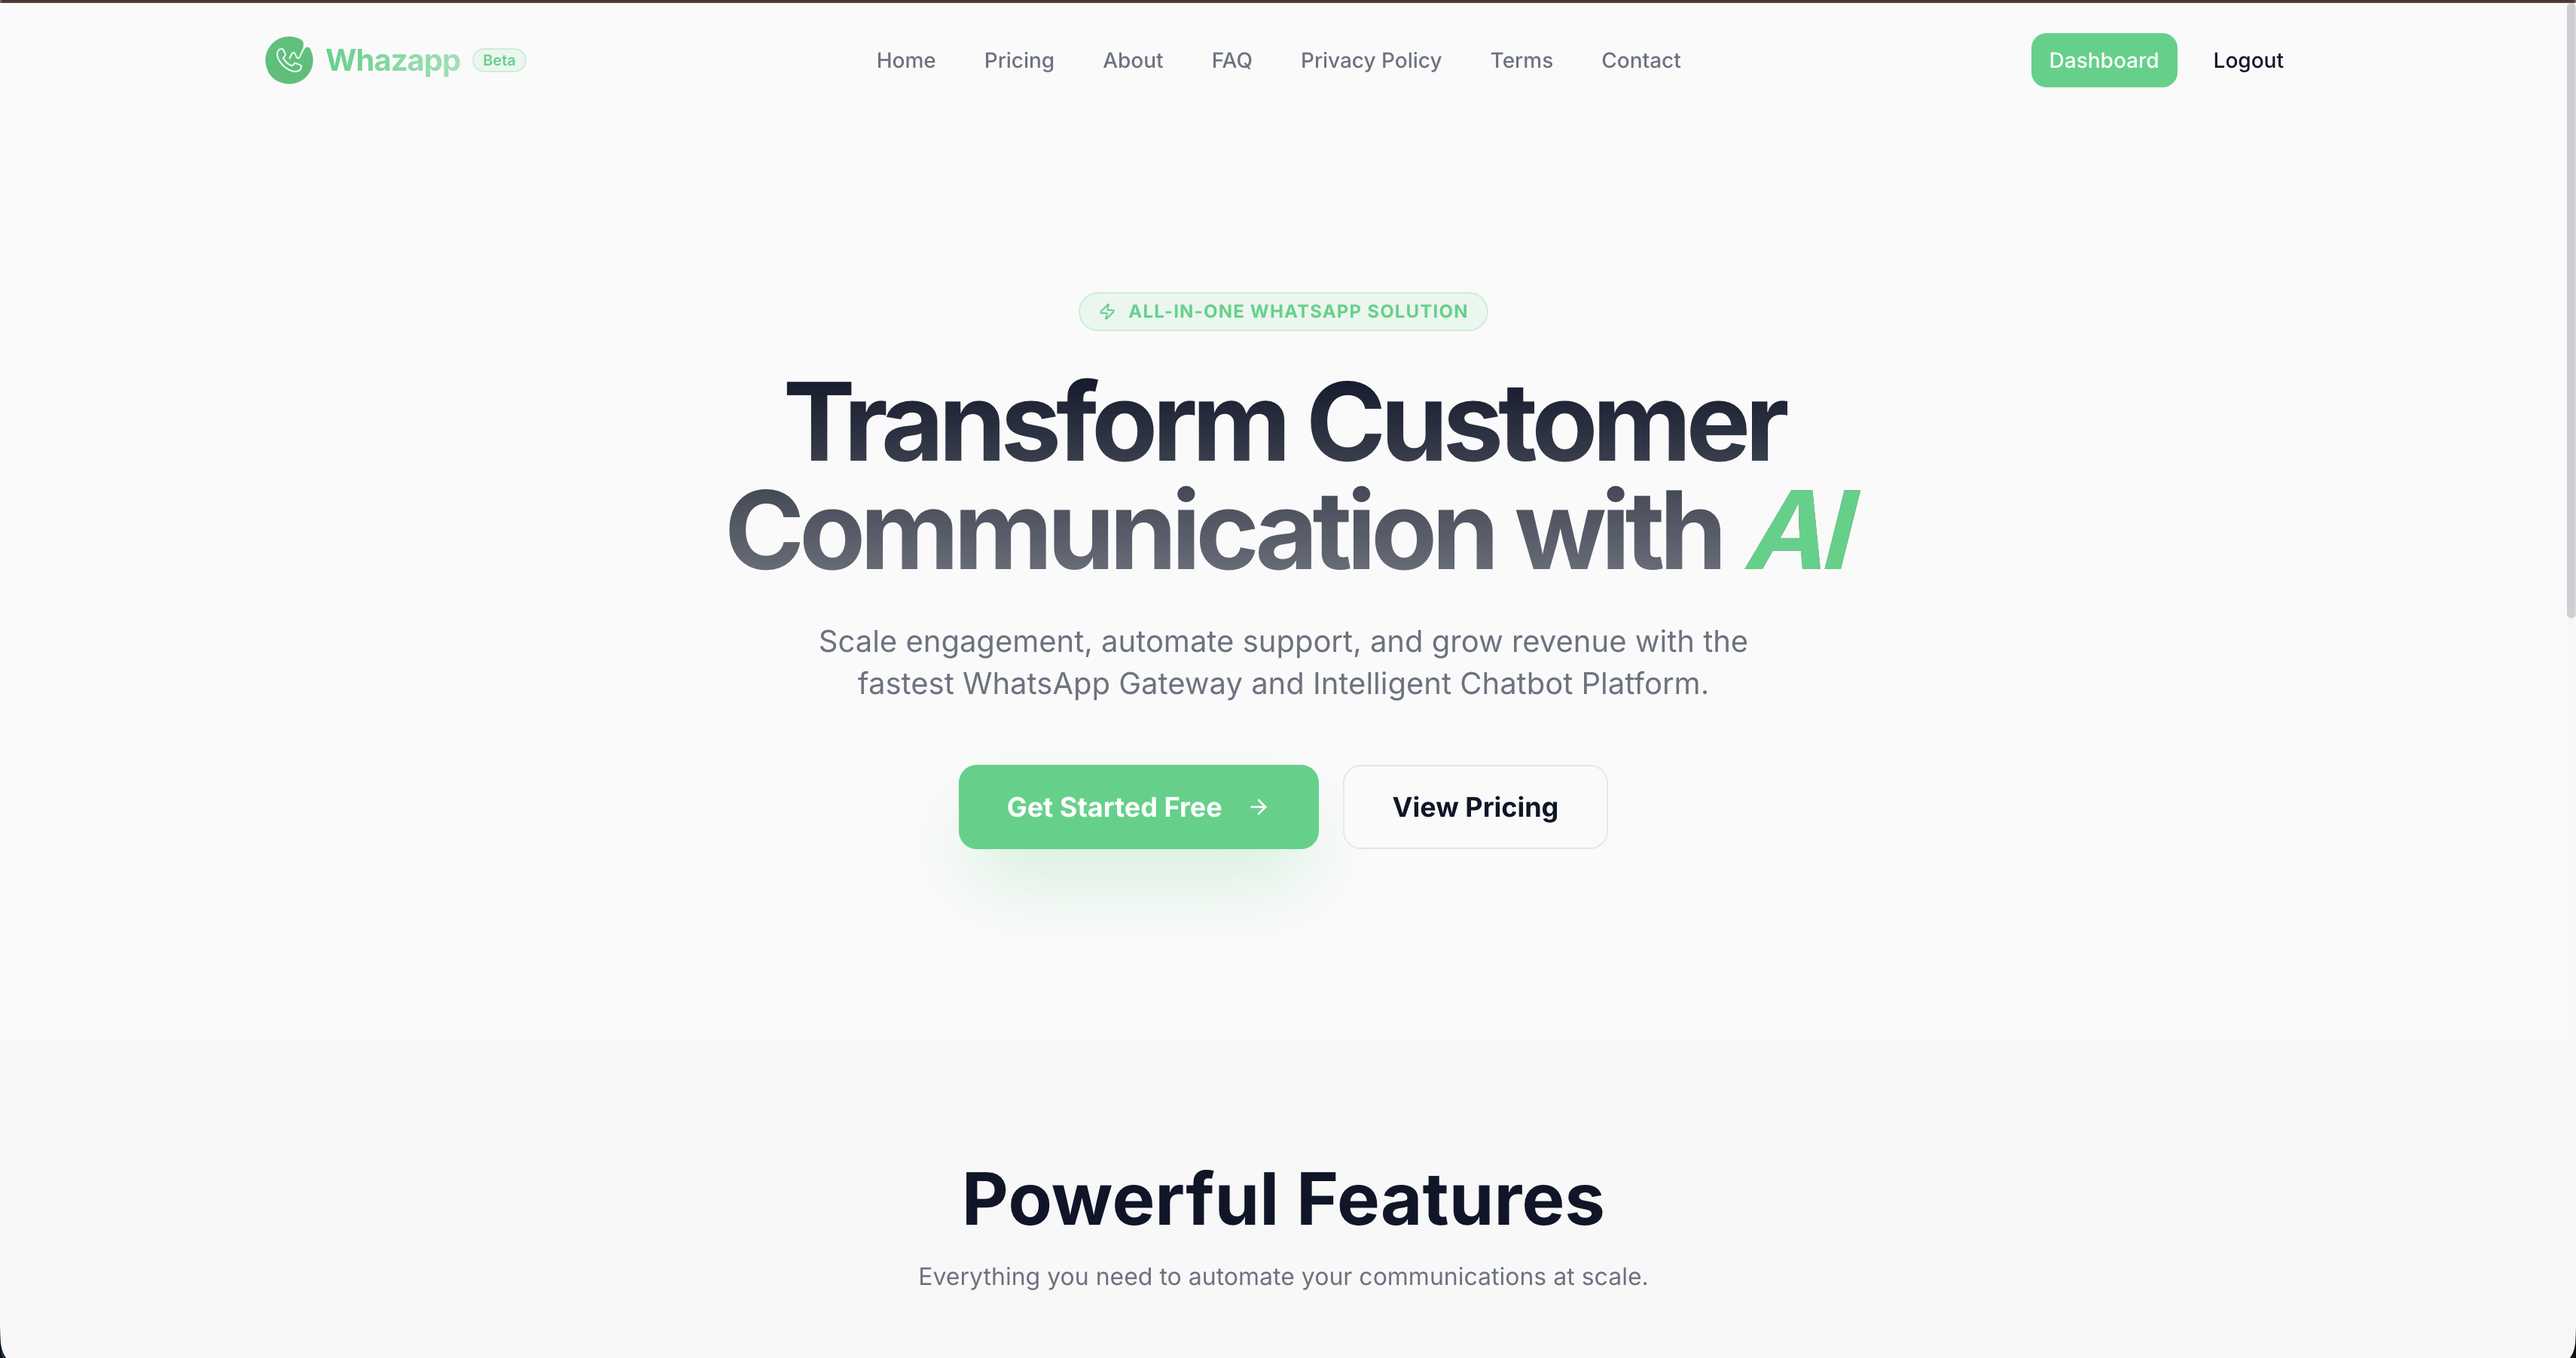
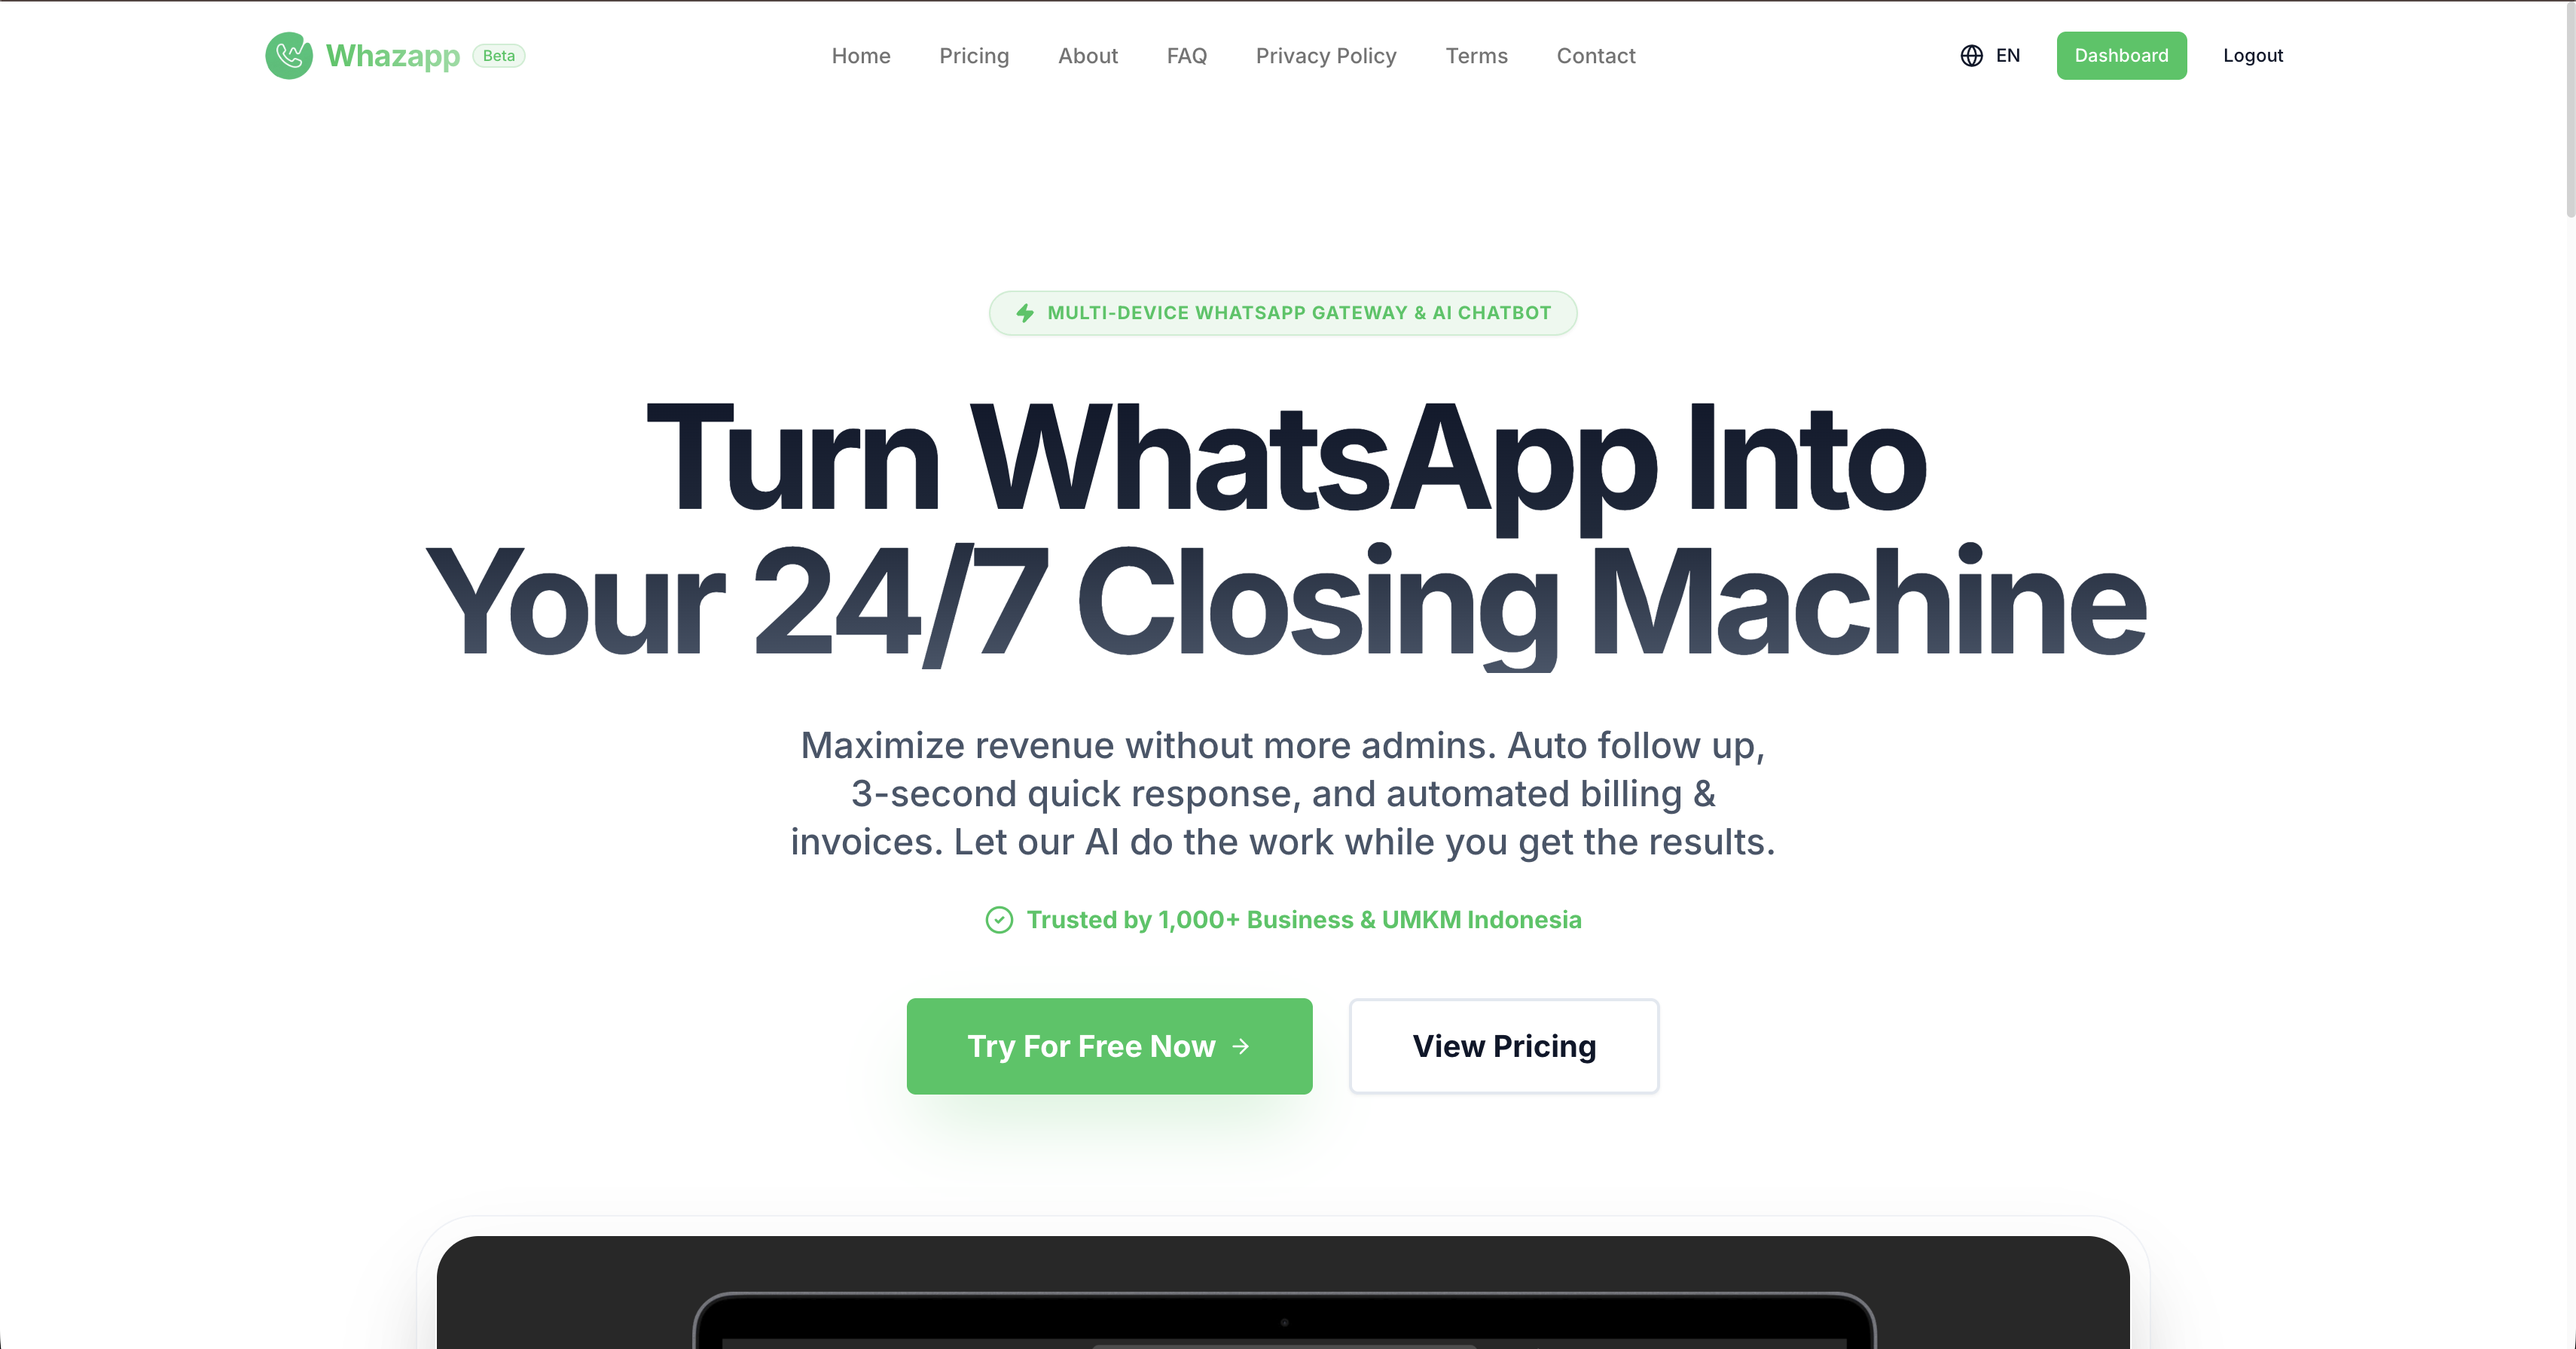
update screenshots

diff --git a/src/pages/ProjectsPage.tsx b/src/pages/ProjectsPage.tsx
@@ -77,8 +77,8 @@ const allProjects: ProjectItem[] = [
       "REST API",
     ],
     role: "Core Contributor",
-    image: IMG,
     period: "Sep 2022 – Present",
+    image: "/images/gurukreator.png",
     details: [
       "Contributed to a large-scale SaaS learning management platform supporting educational institutions.",
       "Developed reporting systems, curriculum management modules, and AI-powered lesson plan generation.",
@@ -93,6 +93,7 @@ const allProjects: ProjectItem[] = [
     skills: ["Laravel", "MySQL", "Vue.js", "Payment Gateway", "VPS"],
     role: "Fullstack Developer",
     period: "Sep 2021 – Sep 2022",
+    image: "/images/mediaberbagi.png",
     details: [
       "Developed a crowdfunding platform supporting multiple organizations and fundraising campaigns.",
       "Implemented multi-tenant architecture, payment workflows, campaign management, and administrative dashboards.",
@@ -126,6 +127,7 @@ const allProjects: ProjectItem[] = [
       "Provincial Government Digital UMKM Platform — Developed frontend features for a government platform supporting MSMEs and digital business services.",
     skills: ["TypeScript", "JavaScript", "React.js", "Redux", "REST API"],
     role: "Frontend Developer",
+    image: "/images/tabe-kalteng.png",
     period: "2022",
     details: [
       "Developed frontend features for a government platform supporting MSMEs and digital business services.",
@@ -141,6 +143,9 @@ const allProjects: ProjectItem[] = [
       "Disaster Risk Management Mobile Application — Developed a mobile application focused on disaster preparedness and risk management. Awarded 3rd Place in the Inarisk BNPB National Hackathon 2021.",
     skills: ["Flutter", "Unity", "C#", "Dart", "Mobile Development", "GIS"],
     role: "Developer",
+    image: "/images/gsquad.jpg",
+    liveUrl:
+      "https://www.undp.org/asia-pacific/news/inarisk-hackathon-fest-2021-innovation-inclusive-disaster-risk-reduction",
     period: "Oct 2021",
     details: [
       "Developed a mobile application focused on disaster preparedness and risk management.",
@@ -155,7 +160,8 @@ const allProjects: ProjectItem[] = [
     description: "News & article portal.",
     skills: ["PHP", "Laravel", "MySQL", "JavaScript"],
     role: "Fullstack Developer",
-    image: "/images/blog-forum.jpg",
+    image: "/images/banuainfo.png",
+    liveUrl: "https://banua.info",
     period: "2022",
     groupLabel: "Content & Community Platforms",
   },
@@ -165,7 +171,7 @@ const allProjects: ProjectItem[] = [
     description: "Articles & discussion forum.",
     skills: ["PHP", "Laravel", "MySQL", "JavaScript"],
     role: "Fullstack Developer",
-    image: "/images/blog-forum.jpg",
+    image: "/images/occiolism.png",
     period: "2023",
   },
   {
@@ -213,7 +219,7 @@ const allProjects: ProjectItem[] = [
     description: "MDIN.BMM.or.id — Bank Muamalat microsite.",
     skills: ["Laravel", "Vue.js", "PHP", "MySQL", "REST API"],
     role: "Fullstack Developer",
-    image: "/images/baitulmaal.jpg",
+    image: "/images/mdin.png",
     period: "2024",
   },
   {
@@ -231,7 +237,7 @@ const allProjects: ProjectItem[] = [
     description: "BerkahBerjamaah.com — Crowdfunding platform.",
     skills: ["Laravel", "Vue.js", "PHP", "MySQL"],
     role: "Fullstack Developer",
-    image: IMG,
+    image: "/images/berkah-berjamaah.png",
     period: "2023",
   },
   {
